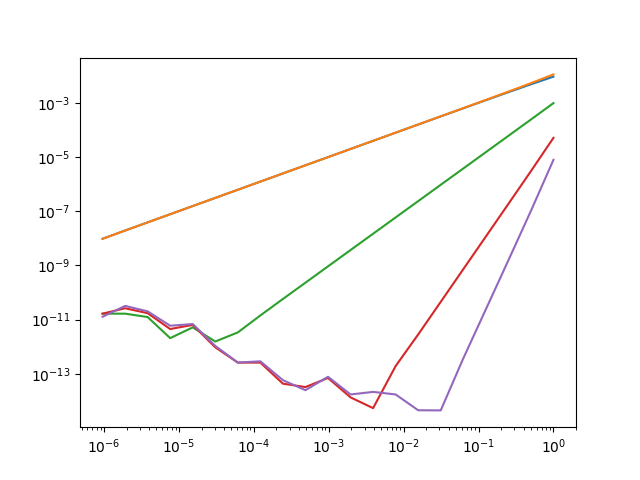
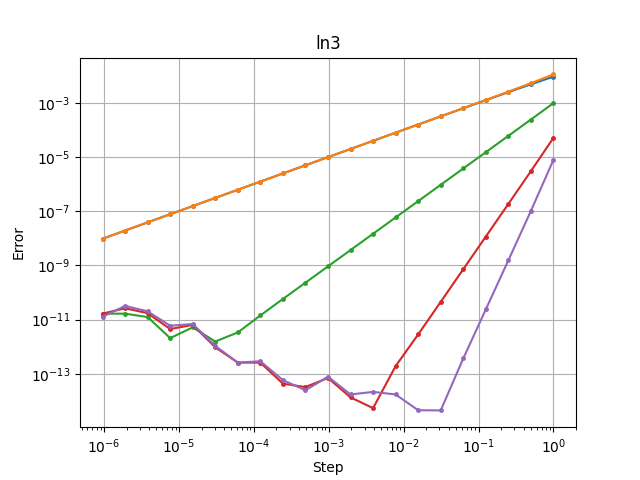
plots are much prettier

diff --git a/errors/errors.py b/errors/errors.py
@@ -92,8 +92,14 @@ def main():
         print(func_list[func])
         plt.xscale('log')
         plt.yscale('log')
+        plt.grid()
+
+        plt.title(func_list[func])
+        plt.ylabel("Error")
+        plt.xlabel("Step")
+
         for i in range(5):
-            plt.plot(hs, errors[func][i], ms=5.0)
+            plt.plot(hs, errors[func][i], '.-', ms=5.0)
         plt.savefig("img/"+func_list[func])
         plt.clf()
 
